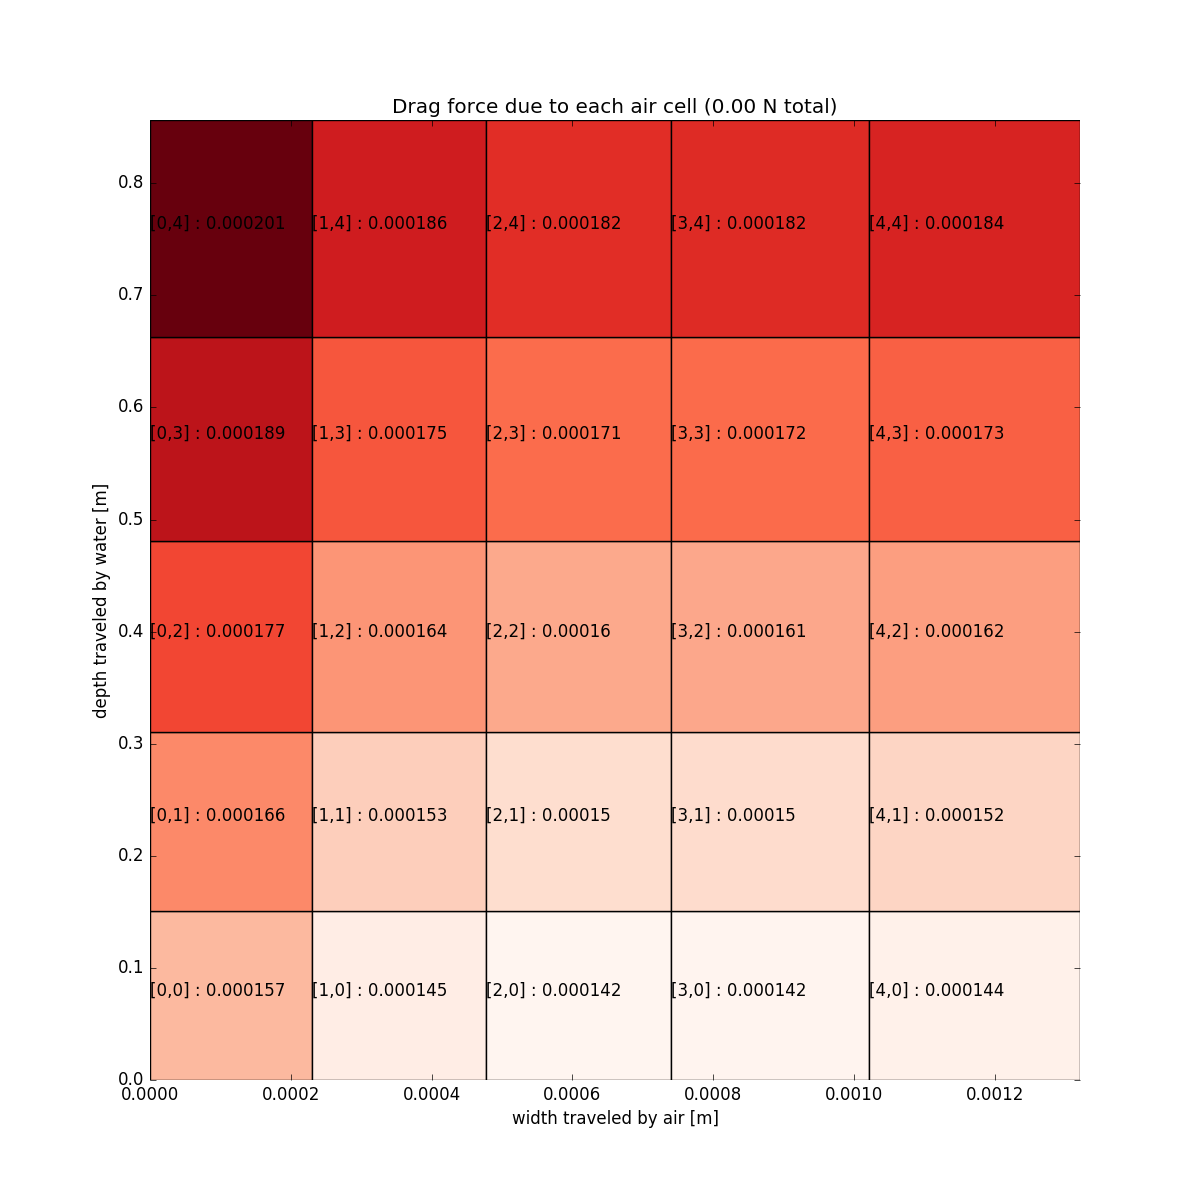
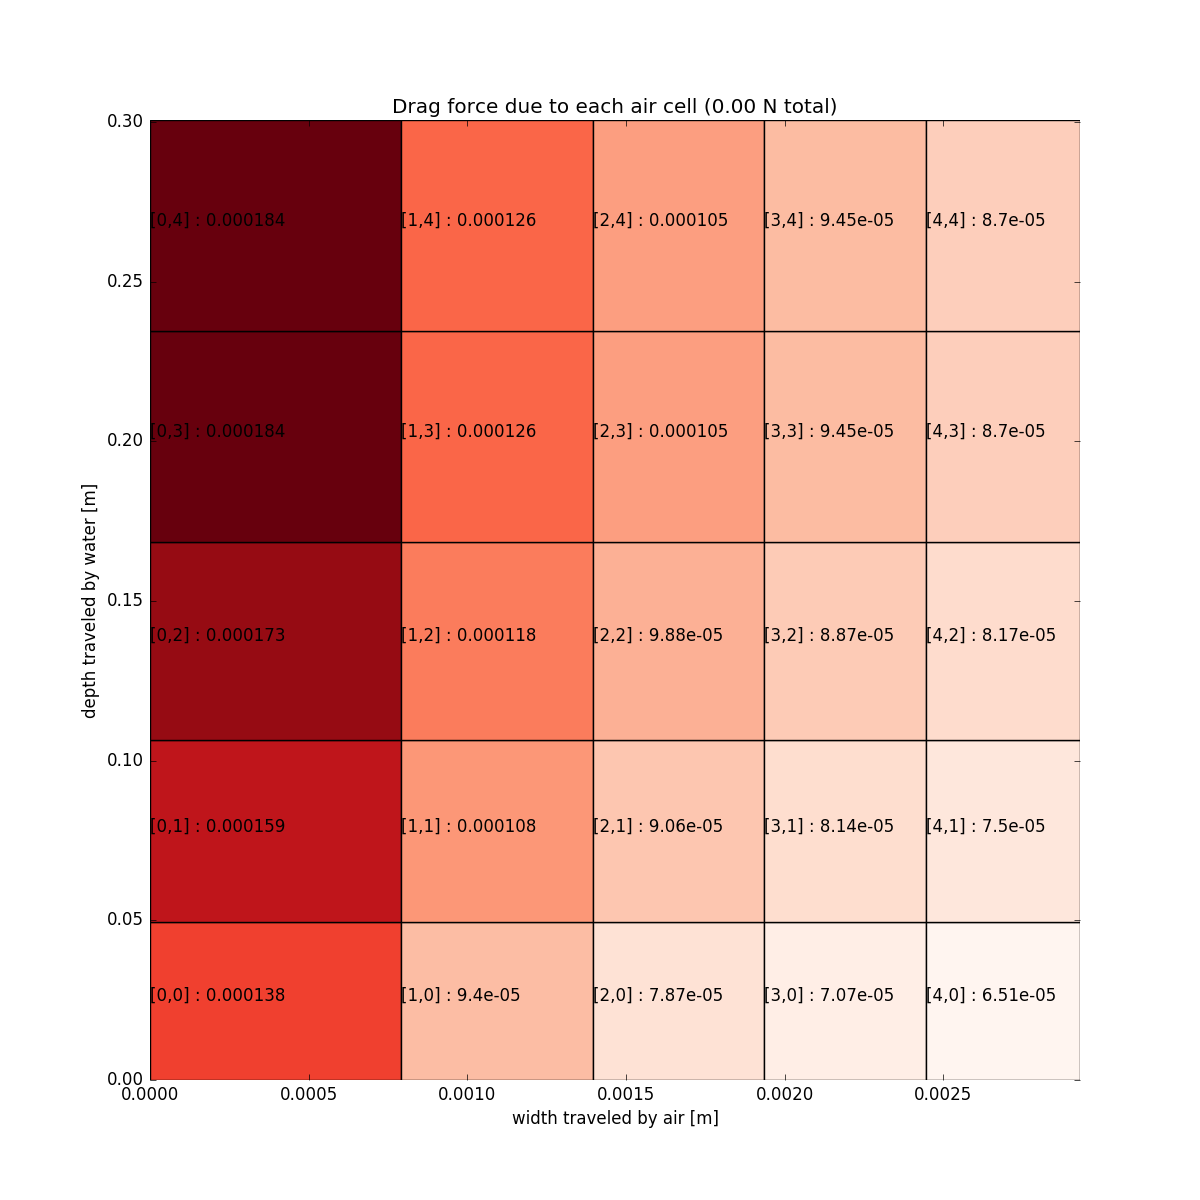
Hacking to get relaxed working. Got drag that makes sense.

diff --git a/heatexchanger/cellplot.py b/heatexchanger/cellplot.py
@@ -10,13 +10,15 @@ def plot_cells(m, Z, cm=cm.RdBu_r, verbosity=0, zscale=None, zoff=None):
     "Plots a given array for every heat-exchange cell"
     f, a = subplots(figsize=(12, 12))
     sol = m.solution
+    Nwaterpipes = m.original.Nwaterpipes
+    Nairpipes = m.original.Nairpipes
     Zmin, Zmax = Z.min(), Z.max()
     dpos = 0
-    for i in range(m.Nwaterpipes):
+    for i in range(Nwaterpipes):
         wpos = 0
-        for j in range(m.Nairpipes):
-            wcell = sol(m.airpipes.w)[j].magnitude
-            dcell = sol(m.waterpipes.w)[i].magnitude
+        for j in range(Nairpipes):
+            wcell = sol(m.original.airpipes.w)[j].magnitude
+            dcell = sol(m.original.waterpipes.w)[i].magnitude
             if not zscale:
                 z = ((Z[j, i] - Zmin)/(Zmax-Zmin)).magnitude
             else:
@@ -44,26 +46,26 @@ def plot_cells(m, Z, cm=cm.RdBu_r, verbosity=0, zscale=None, zoff=None):
 if __name__ == "__main__":
     from layer import Layer
     Nw, Na = 5, 5
-    print sol(m.c.dQ).min(), 0.625/Nw/Na
+    print sol(m.original.c.dQ).min(), 0.625/Nw/Na
 
-    f, a = plot_cells(m, sol(m.c.T_hot), cm=cm.Reds, zscale=1/Nw/Na, zoff=0.625/Nw/Na, verbosity=2)
+    f, a = plot_cells(m, sol(m.original.c.T_hot), cm=cm.Reds, zscale=1/Nw/Na, zoff=0.625/Nw/Na, verbosity=2)
     a.set_title("Liquid Temperature [K]")
     f.savefig("plots/T_liq.png")
 
-    Q = sol(m.Q).magnitude
-    f, a = plot_cells(m, sol(m.c.dQ), cm=cm.Reds, zscale=1/Nw/Na, zoff=0.625/Nw/Na, verbosity=2)
+    Q = sol(m.original.Q).magnitude
+    f, a = plot_cells(m, sol(m.original.c.dQ), cm=cm.Reds, zscale=1/Nw/Na, zoff=0.625/Nw/Na, verbosity=2)
     a.set_title("Heat Transfer (%.2f Watts total)" % Q)
     f.savefig("plots/dQ.png")
 
     # Water drag in each cell
-    waterD = sum(sum(sol(m.waterpipes.D_seg).magnitude))
-    f, a = plot_cells(m, sol(m.waterpipes.D_seg), cm=cm.Blues, zscale=1/Nw/Na, zoff=0.625/Nw/Na, verbosity=2)
+    waterD = sum(sum(sol(m.original.waterpipes.D_seg).magnitude))
+    f, a = plot_cells(m, sol(m.original.waterpipes.D_seg), cm=cm.Blues, zscale=1/Nw/Na, zoff=0.625/Nw/Na, verbosity=2)
     a.set_title("Drag force due to each water cell (%.2f Watts total)" % waterD)
     f.savefig("plots/waterD.png")
 
     # Air drag in each cell
-    airD = sum(sum(sol(m.airpipes.D_seg).magnitude))
-    f, a = plot_cells(m, sol(m.airpipes.D_seg), cm=cm.Reds, zscale=1/Nw/Na, zoff=0.625/Nw/Na, verbosity=2)
+    airD = sum(sum(sol(m.original.airpipes.D_seg).magnitude))
+    f, a = plot_cells(m, sol(m.original.airpipes.D_seg), cm=cm.Reds, zscale=1/Nw/Na, zoff=0.625/Nw/Na, verbosity=2)
     a.set_title("Drag force due to each air cell (%.2f N total)" % airD)
     f.savefig("plots/airD.png")
 

diff --git a/heatexchanger/layer.py b/heatexchanger/layer.py
@@ -25,8 +25,6 @@ class Layer(Model):
 
     """
     def setup(self, Nairpipes, Nwaterpipes):
-        calc_p0in = lambda self, c: c[self.P_i] + 0.5*c[self.rho_i]*c[self.V_i]**2
-
         exec parse_variables(Layer.__doc__)
         self.Nairpipes = Nairpipes
         self.Nwaterpipes = Nwaterpipes
@@ -34,14 +32,14 @@ class Layer(Model):
         air = Air()
         with Vectorize(Nairpipes):
             airpipes = RectangularPipe(Nwaterpipes, air, increasingT=True,
-                                       substitutions={"T_in": 303*units('K'),
-                                                      "v_in": 20*units('m/s')})
+                                       substitutions={"T_in": 303,
+                                                      "v_in": 20})
             self.airpipes = airpipes
         water = Water()
         with Vectorize(Nwaterpipes):
             waterpipes = RectangularPipe(Nairpipes, water, increasingT=False,
-                                         substitutions={"T_in": 500*units('K'),
-                                                        "v_in": 5*units('m/s')})
+                                         substitutions={"T_in": 500,
+                                                        "v_in": 5})
             self.waterpipes = waterpipes
         with Vectorize(Nwaterpipes):
             with Vectorize(Nairpipes):
@@ -101,8 +99,7 @@ class Layer(Model):
 
 if __name__ == "__main__":
     m = Layer(5, 5)
-    m.substitutions.update()
     m.cost = 1/m.Q + m.waterpipes.D.sum()*units('1/(N*W)')+m.airpipes.D.sum()*units('1/(N*W)')
-    m = Model(m.cost, Bounded(m))
+    m = relaxed_constants(m)
     sol = m.localsolve(verbosity=4)
-    print sol(m.Q)
+    print sol('Q')

diff --git a/heatexchanger/relaxed_constants.py b/heatexchanger/relaxed_constants.py
@@ -23,6 +23,7 @@ def relaxed_constants(model, include_only=None, exclude=None):
         constsrelaxed = ConstantsRelaxed(model, include_only, exclude)
         feas = Model(constsrelaxed.relaxvars.prod()**20 * model.cost + model.cost,
                      constsrelaxed)
+        feas.original = model
         # NOTE: It hasn't yet been seen but might be possible that
         #       the model.cost component above could cause infeasibility
     else:

diff --git a/heatexchanger/rectpipe.py b/heatexchanger/rectpipe.py
@@ -50,6 +50,8 @@ class RectangularPipe(Model):
 
     """
     def setup(self, Nsegments, fluid, increasingT):
+        calc_p0in = lambda self, c: c[self.P_i] + 0.5*c[self.rho_i]*c[self.V_i]**2
+
         exec parse_variables(RectangularPipe.__doc__)
         self.increasingT = increasingT
         self.T_out = T[-1]
